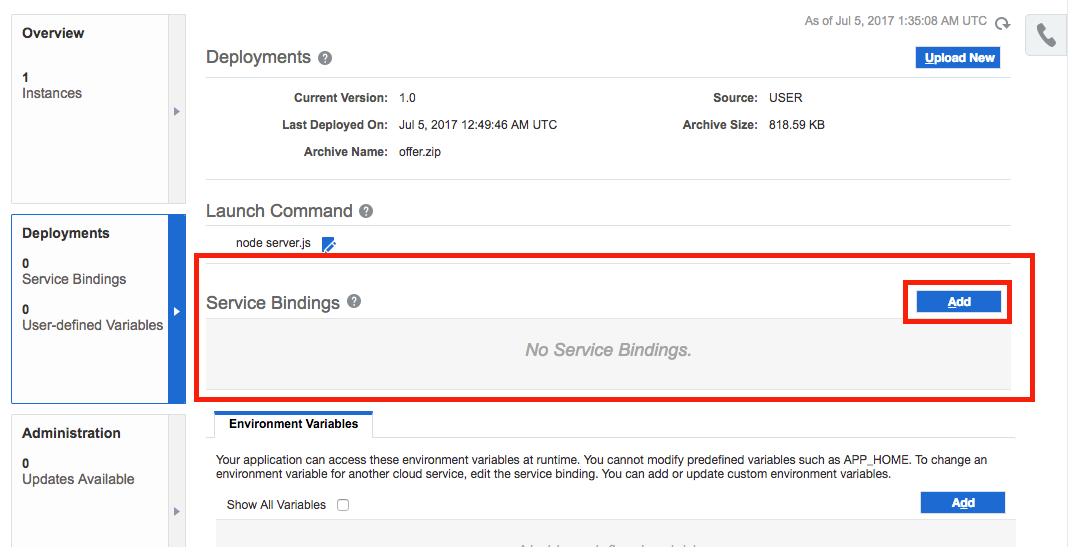
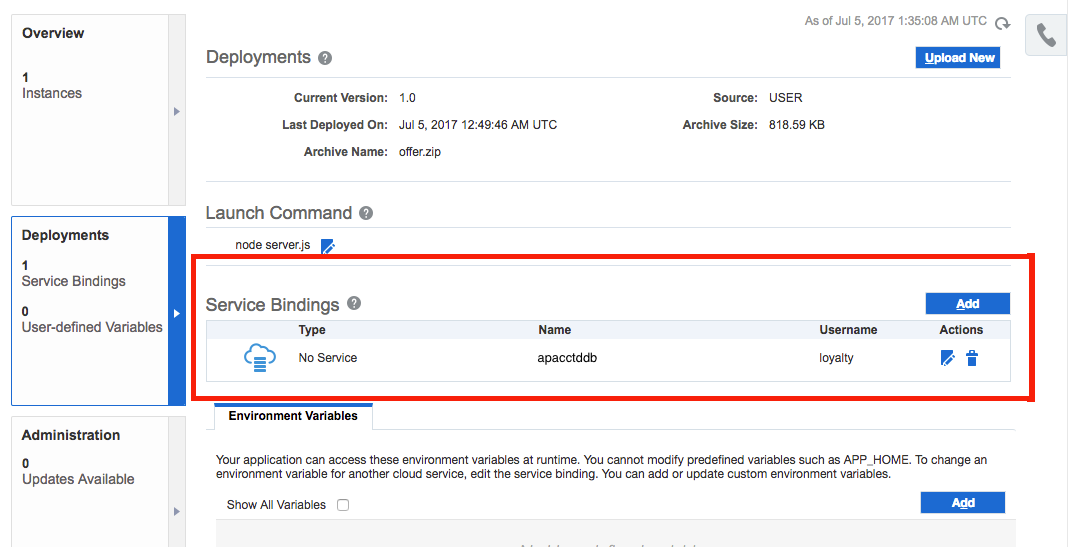
change from add service to check service

diff --git a/Microservices/MicroservicesLab.md b/Microservices/MicroservicesLab.md
@@ -208,37 +208,14 @@ Now that we have the source code in our Developer Cloud Service managed Git Repo
 
 ![](images/031.accsoffer.png)
 
-- Click the 2nd Tab, **Deployments**
+- Check the 2nd Tab, **Deployments**
 
 ![](images/032.bindings.png)
 
-- In the **Service Bindings** section, click **[Add]** button
+- In the **Service Bindings** section, you SHOUD see the database binding. **You do NOT need to change anything.**
 
 ![](images/033.addbinding.png)
 
-- Enter the following information
-
-  **Service Type:** `Database Cloud Service`
-
-	**Service Name:** `apacctddb`
-
-	**Username:** `loyalty`
-
-	**Password:** `the database password`, e.g. Welcome_1
-
- Click **[Save]** button.
-
-![](images/034.addandsave.png)
-
-- Notice that the change is not applied yet. In the **Deployments** dialog, click the **[Apply Edits]** button.
-
-![](images/035.apply.png)
-
-- The change requires redeploying of application. You can navigate back to **Overview** tab and/or use **Refresh** button to check the progress.
-
-![](images/036.redeploying.png)
-
-- Wait until the offer application finish redeployment.
 
 ## 1.5 Verify the Working Service
 
@@ -395,7 +372,7 @@ https://offer-{your-identity-domain}.apaas.{your-data-center}.oraclecloud.com/pt
 
 ![](images/132.newbranch.png)
 
-### 2.2.4 create Merge Request in Developer Cloud Service to uptake the code
+### 2.2.4 Create Merge Request in Developer Cloud Service to uptake the code
 
 - In Developer Cloud Service, click on **Code** tab. If you are not viewing the QRCodeMicroservice repo, change to the QRCode Repo.  
 
@@ -631,7 +608,7 @@ Microservice, you can REUSE the same target**.
 
   The final URL should looks like this
 
-	https://qrcodegenerator-{your-identity-domain}.apaas.{your-data-center}.oraclecloud.comm/ctdqr/v1/offer/10001
+	https://qrcodegenerator-{your-identity-domain}.apaas.{your-data-center}.oraclecloud.com/ctdqr/v1/offer/10001
 
 ![](images/194.qrurl.png)		
 
@@ -643,6 +620,6 @@ Microservice, you can REUSE the same target**.
 
 ![](images/196.reader.png)
 
-# Congratulation! You've complete the Microservice Lab.
+# Congratulation! You've completed the Microservice Lab.
 
 [go back to the Cloud Test Drive Main Page](../README.md)
